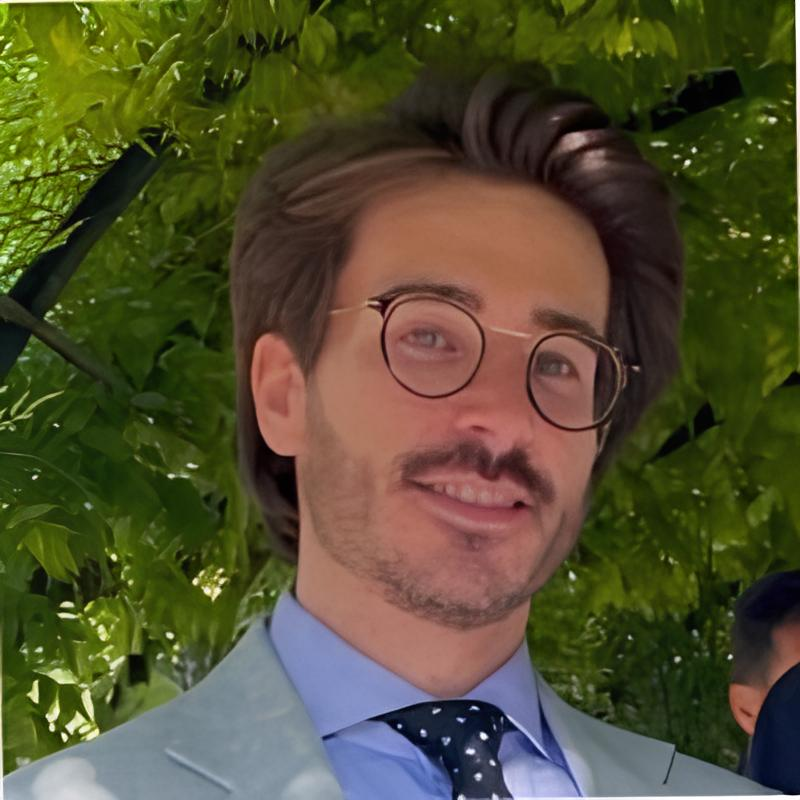
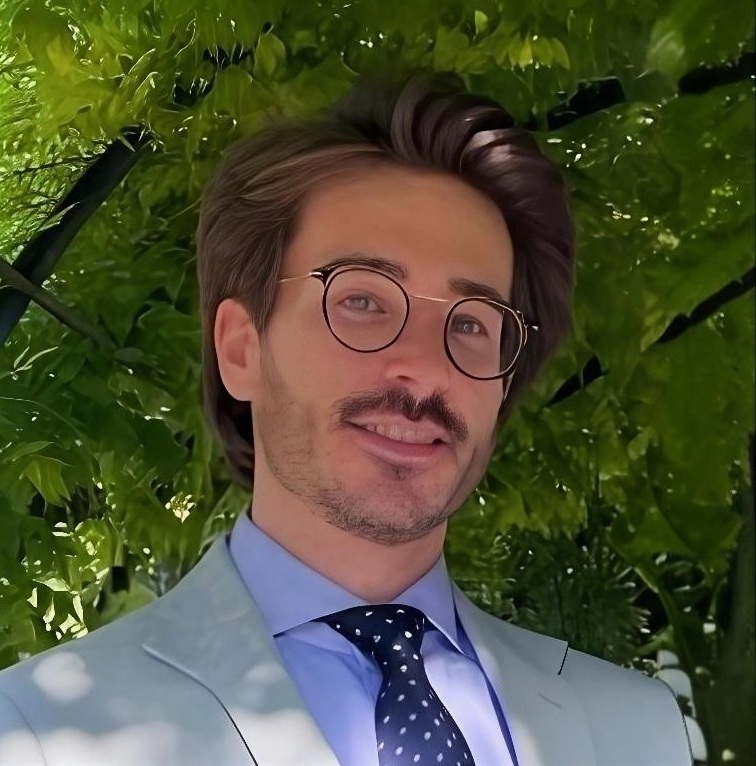
sistemate foto

diff --git a/content/services/servizi-intelligenza-artificiale.md b/content/services/servizi-intelligenza-artificiale.md
@@ -1,7 +1,7 @@
 ---
 title: Servizi di Intelligenza Artificiale
 seo_title: "Servizi di intelligenza artificiale per aziende | Manalisk"
-linkTitle: Servizi AI
+linkTitle: AI e automazione
 description: Soluzioni AI per automatizzare attività, consultare documenti, estrarre informazioni e analizzare dati aziendali.
 draft: false
 layout: ai-services-modern
@@ -16,12 +16,10 @@ disable_article_schema: true
 og_type: website
 
 hero:
-  eyebrow: Servizi AI
+  eyebrow: Servizi AI e Automazione
   title: AI applicata ai processi aziendali
   text: >-
-    Partiamo da documenti, dati e attività che oggi richiedono troppo tempo.
-    Verifichiamo se l'AI può semplificarli, proviamo la soluzione su un caso reale
-    e la integriamo negli strumenti già utilizzati. Se l'AI non serve, lo diciamo.
+    Partiamo da documenti, dati, attività e processi che oggi richiedono troppo tempo. Verifichiamo se l'AI può semplificarli o automatizzarli, proviamo la soluzione su un caso reale e la integriamo negli strumenti già utilizzati. Quando l'AI non è la risposta migliore lo diciamo, e realizziamo l'automazione tradizionale che risolve il problema in modo più affidabile e meno costoso.
   primary_cta: Guarda gli ambiti di lavoro
   secondary_cta: Raccontaci il processo
 
